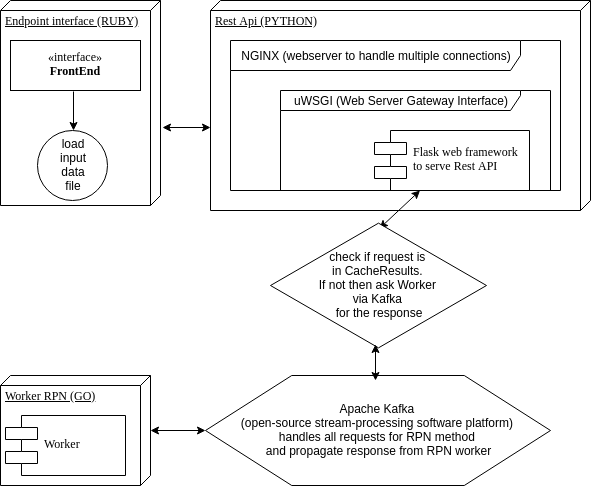
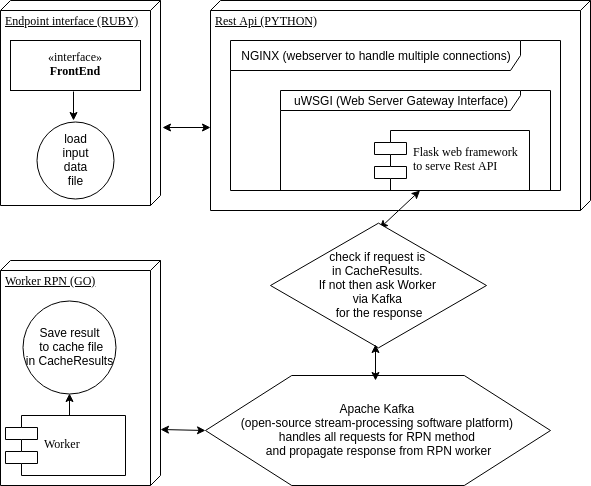
Updated readme and architecture diagram

diff --git a/project_ruby_python_go_RPN/README.md b/project_ruby_python_go_RPN/README.md
@@ -164,7 +164,7 @@ Reading: 0 Writing: 1 Waiting: 0
 2. Start implementing worker in GO
     - write a RPN algorithm
     - write tests
-    - write [http queue worker](http://nesv.github.io/golang/2014/02/25/worker-queues-in-go.html)
+    - <del>write [http queue worker](http://nesv.github.io/golang/2014/02/25/worker-queues-in-go.html)</del>
 
 3. Start implementing communication layer:
     - dive deep into Apache Kafka (distributed streaming platform) which has got many clients for many languages including ruby, python and GO and is elastic, highly scalable, fault-tolerant on mac,linux,windows
@@ -192,5 +192,5 @@ Reading: 0 Writing: 1 Waiting: 0
     - start building a docker to run everything
         - start rest api in python
         - add everything to start worker go when system starts
-        - run ruby endpoint interface???
+        - run ruby endpoint interface
     - modify architecture diagram with new changes
